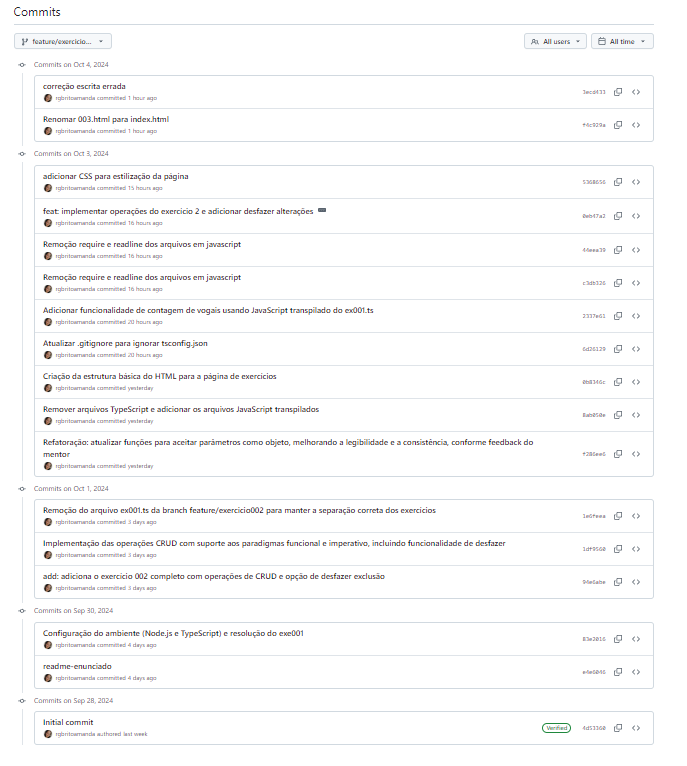
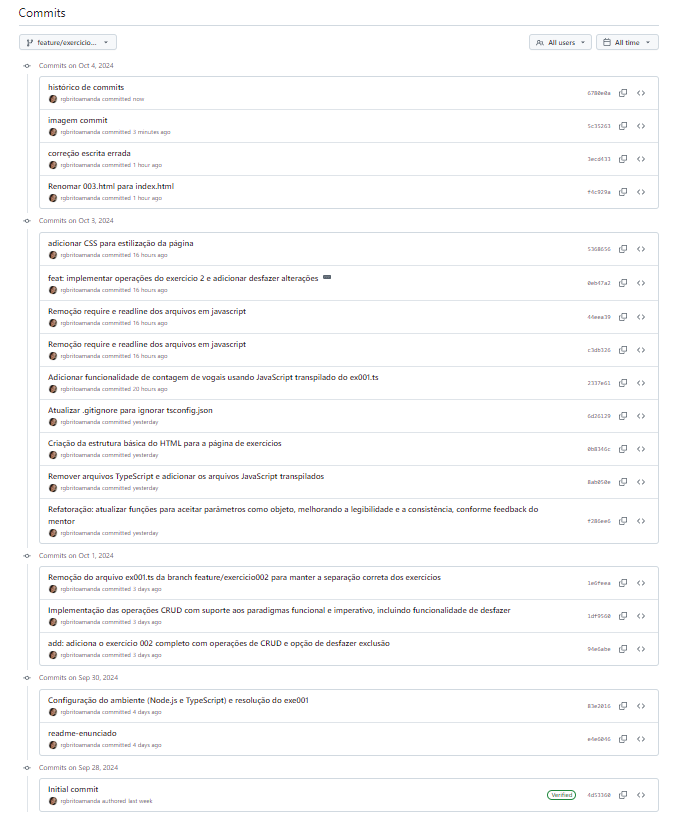
histórico final

diff --git a/exercicios/index.html b/exercicios/index.html
@@ -84,35 +84,16 @@
     }
 
     #historicoCommits {
-      margin-top: 20px;
+      background-color: #6A5ACD;
       padding: 20px;
-      background-color: #3B3B98;
+      margin: 20px;
       border-radius: 10px;
       box-shadow: 0px 4px 8px rgba(0, 0, 0, 0.2);
-      width: 100%;
       max-width: 600px;
-    }
-
-    #historicoCommits h3 {
-      color: #FF6F61;
-    }
-
-    #historicoCommits ul {
-      list-style-type: none;
-      padding: 0;
-      color: #E6E6FA;
-    }
-
-    #historicoCommits ul li {
-      margin-bottom: 10px;
-      background-color: #4B0082;
-      padding: 10px;
-      border-radius: 5px;
-      box-shadow: 0px 2px 4px rgba(0, 0, 0, 0.1);
+      width: 100%;
     }
 
     #imgHistorico {
-      margin-top: 20px;
       max-width: 100%;
       border-radius: 10px;
       box-shadow: 0px 4px 8px rgba(0, 0, 0, 0.2);
@@ -158,13 +139,7 @@
   </div>
 
   <div id="historicoCommits">
-    <h3>Histórico de Commits</h3>
-    <ul id="listaCommits">
-      <li>Commit 1: Implementação inicial dos exercícios.</li>
-      <li>Commit 2: Correção de bugs e melhorias no layout.</li>
-      <li>Commit 3: Adicionada a funcionalidade de desfazer exclusão.</li>
-      <li>Commit 4: Ajustes de estilização e melhoria da experiência do usuário.</li>
-    </ul>
+    <h2>Histórico de Commits</h2>
     <img id="imgHistorico" src="./imag/commits.png" alt="Histórico de commits do projeto">
   </div>
 
